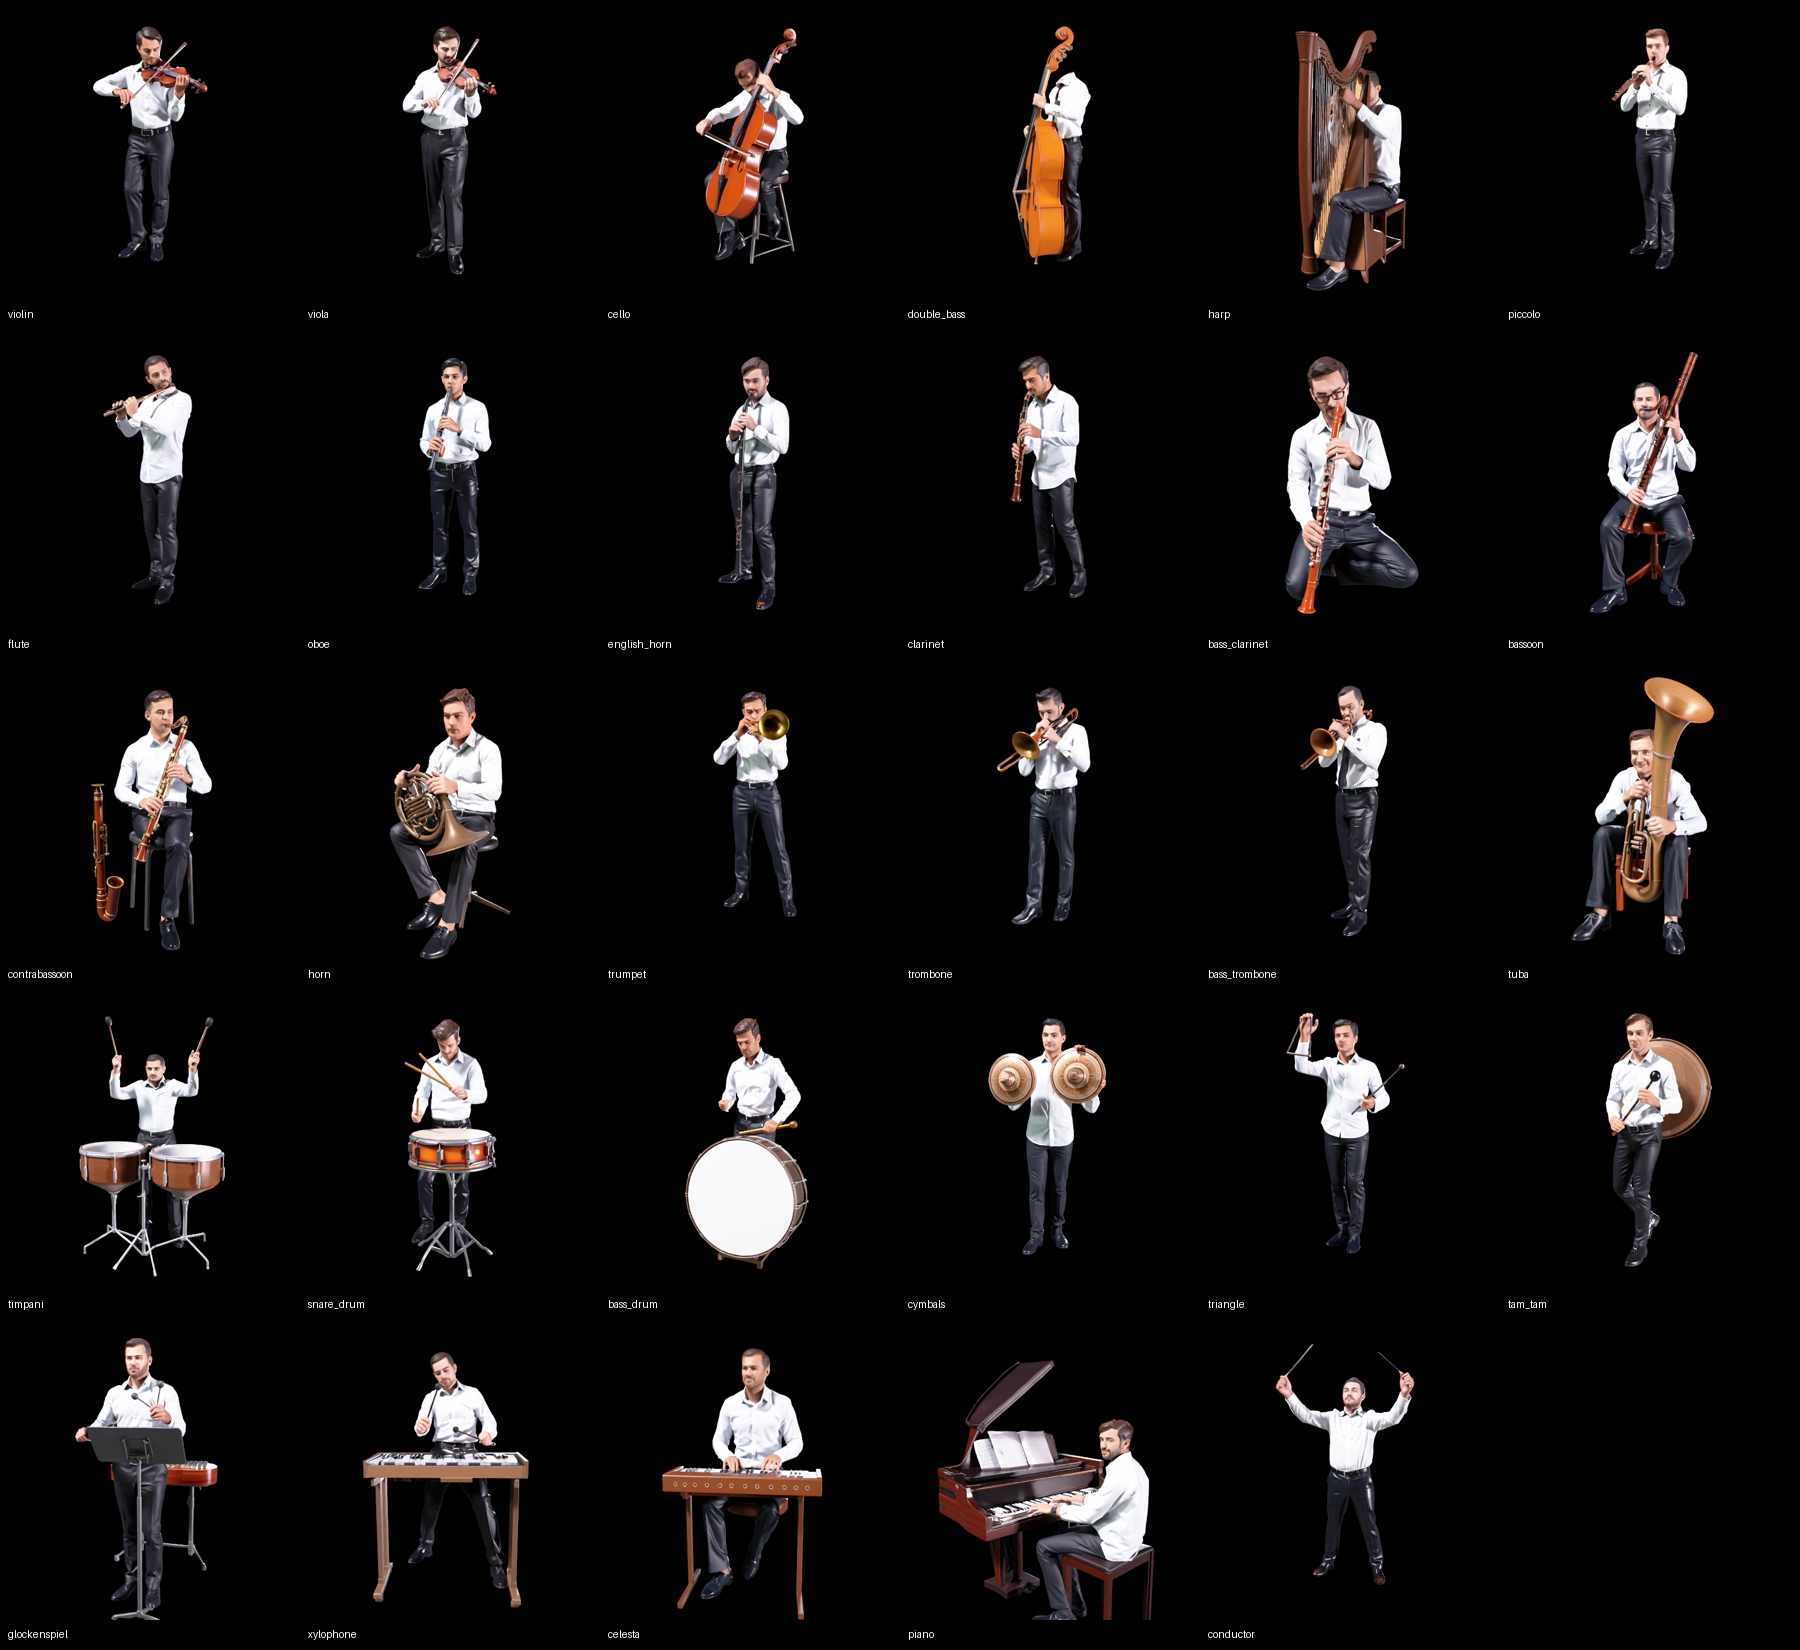
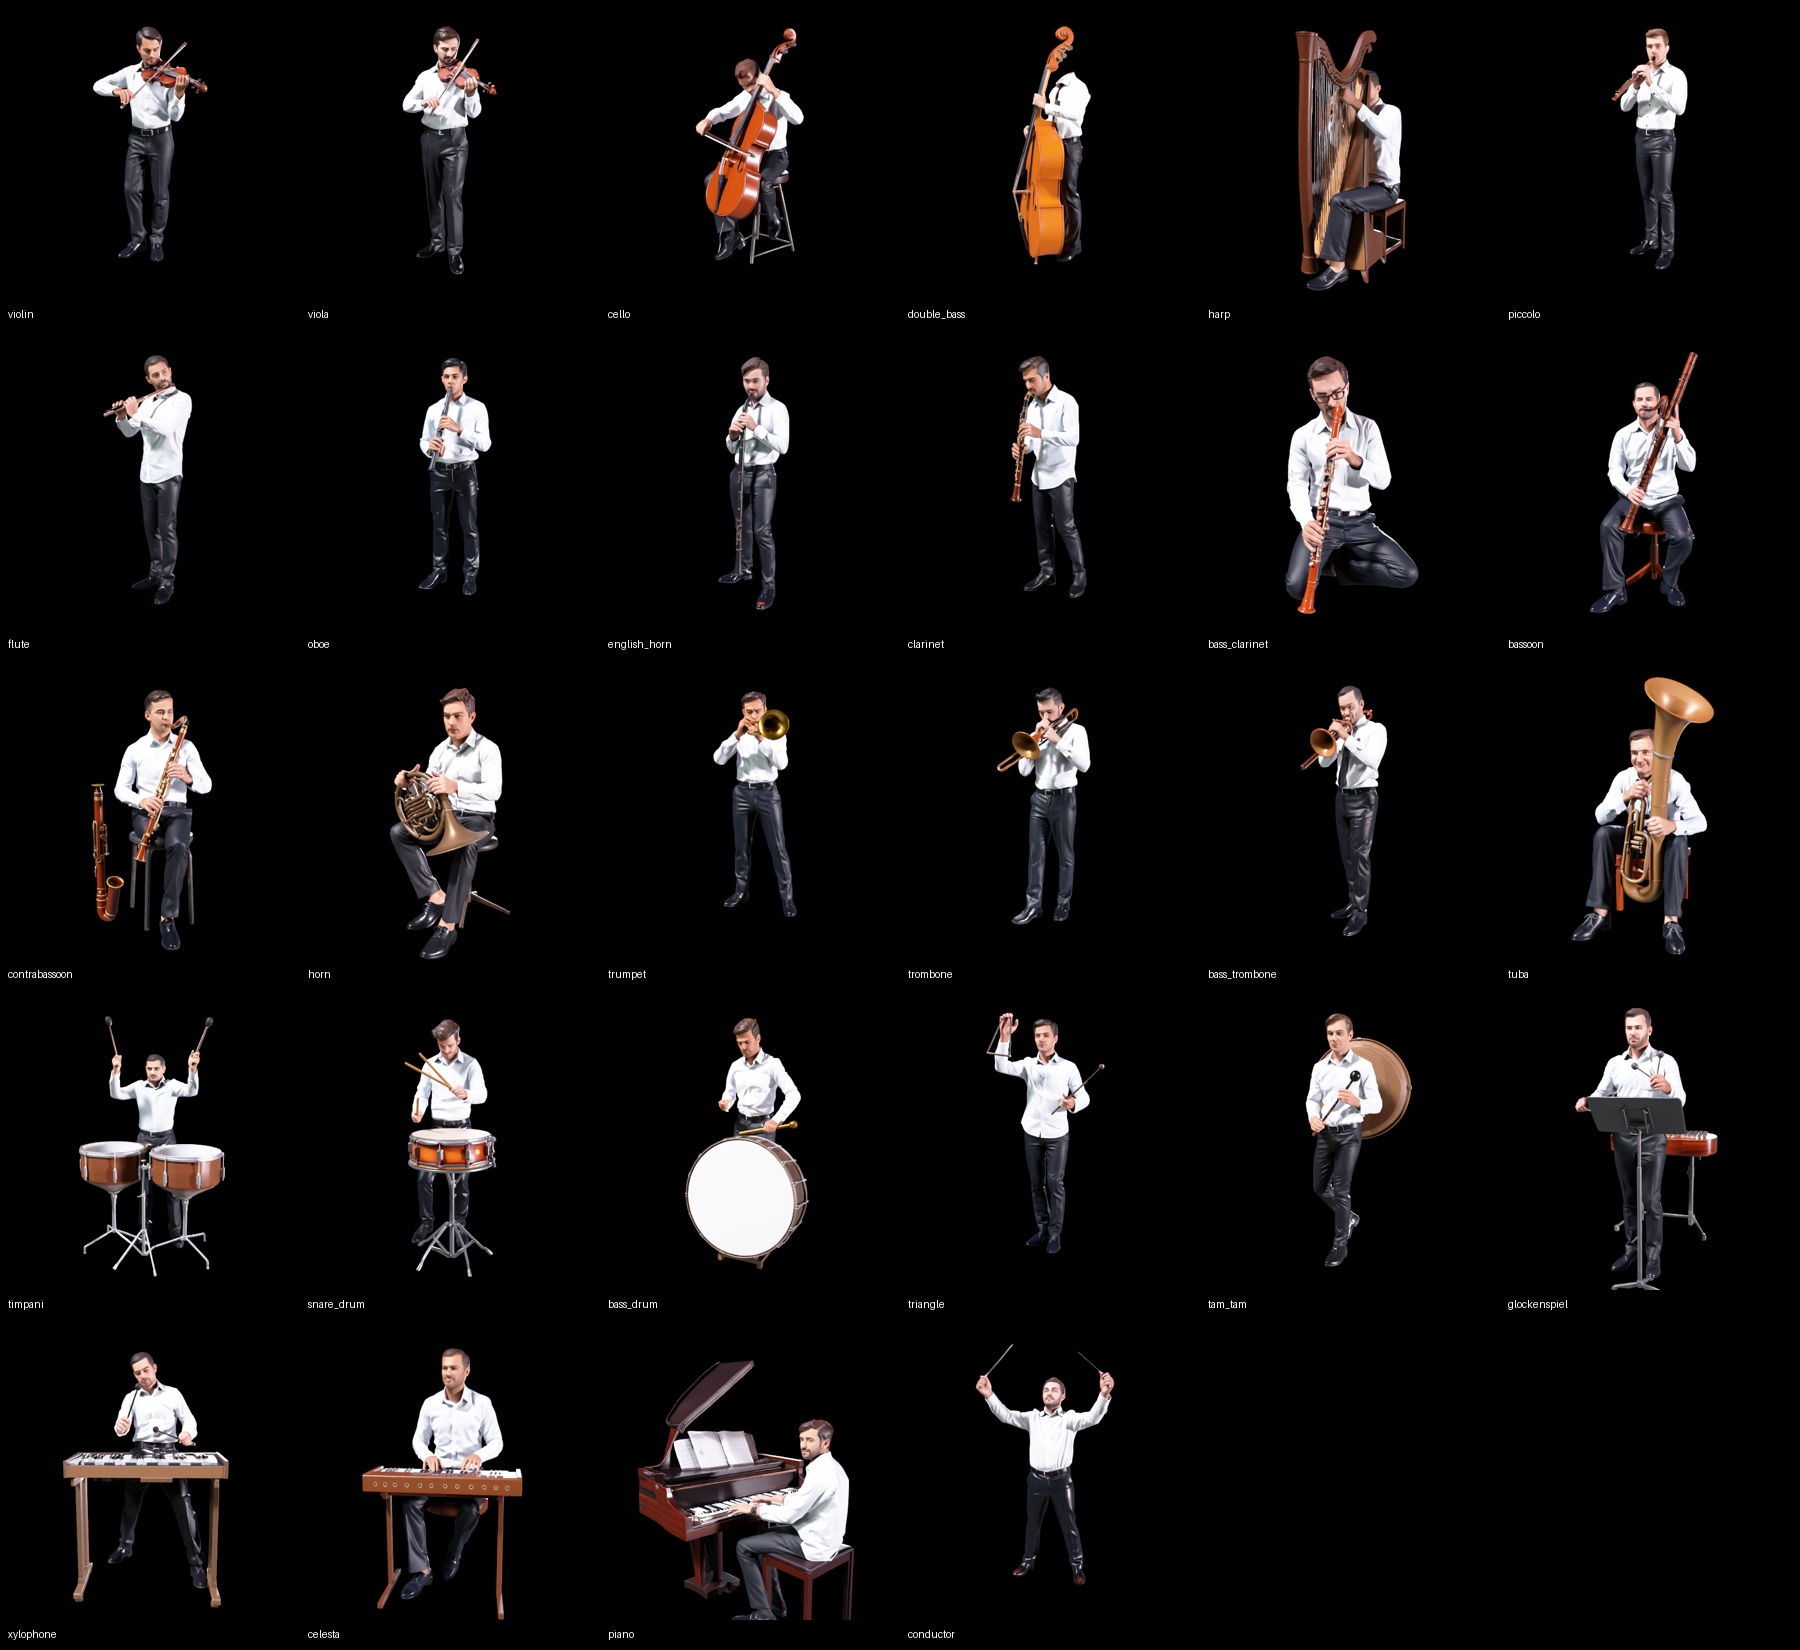
Exclude cymbals from the performer set for now
Claude-Session: https://claude.ai/code/session_01YadQTpLaDnkSa4S8bq648B

diff --git a/scripts/meshy_generate.py b/scripts/meshy_generate.py
@@ -140,6 +140,8 @@ def main():
         if unknown:
             sys.exit(f"unknown ids: {', '.join(sorted(unknown))}")
         performers = [x for x in performers if x["id"] in args.ids]
+    else:
+        performers = [x for x in performers if not x.get("exclude")]
     if args.tier is not None:
         performers = [x for x in performers if x["tier"] == args.tier]
 

diff --git a/README.md b/README.md
@@ -10,7 +10,7 @@
 
 | パス | 内容 |
 | --- | --- |
-| `models/manifest.json` | 奏者29人（オーケストラ全楽器と指揮者）の定義。楽器、姿勢、衣装、プロンプト |
+| `models/manifest.json` | 奏者29人（オーケストラ全楽器と指揮者）の定義。楽器、姿勢、衣装、プロンプト。`"exclude": true` の奏者は、`--ids` で名前を指定しない限り生成しない（今はシンバルを除外している） |
 | `scripts/meshy_generate.py` | Meshy の text-to-3D API で GLB を生成する。結果は `models/raw/<id>/` に保存 |
 | `scripts/glb_to_pointcloud.py` | GLB を同じ点数・同じ並び順の点群（`.jxf`）に変換する。保存先は `models/points/` |
 | `max/performer_fx.genexpr` | jit.gen 用のコード。点群を変形（モーフ）、融解、飛散させる |
